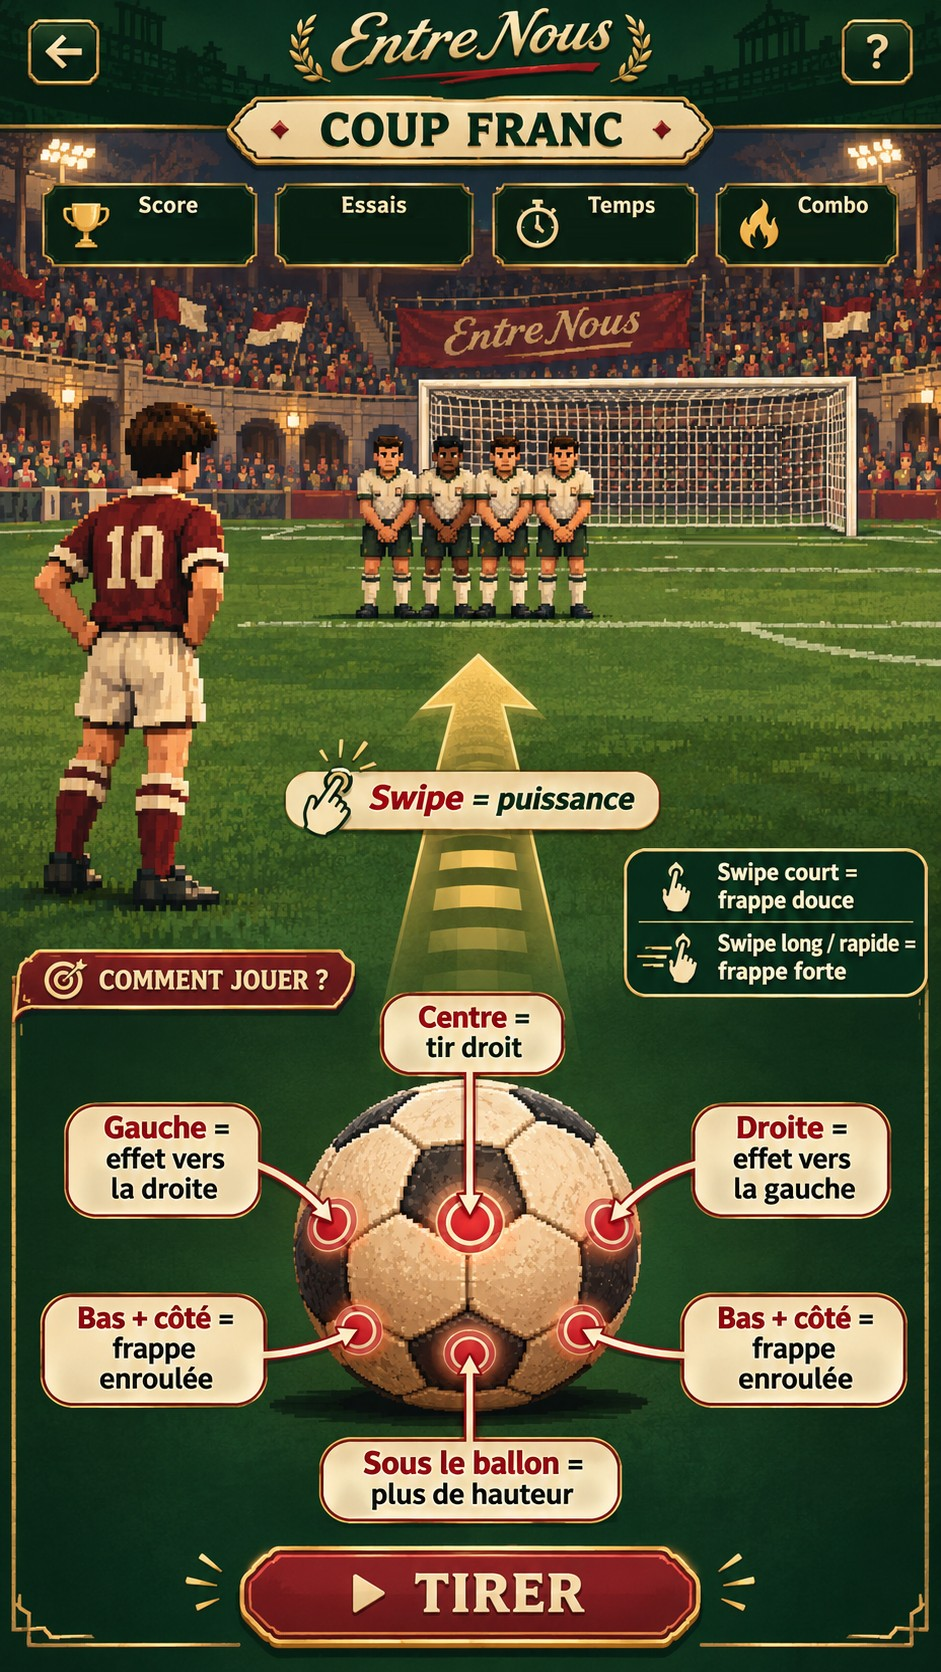
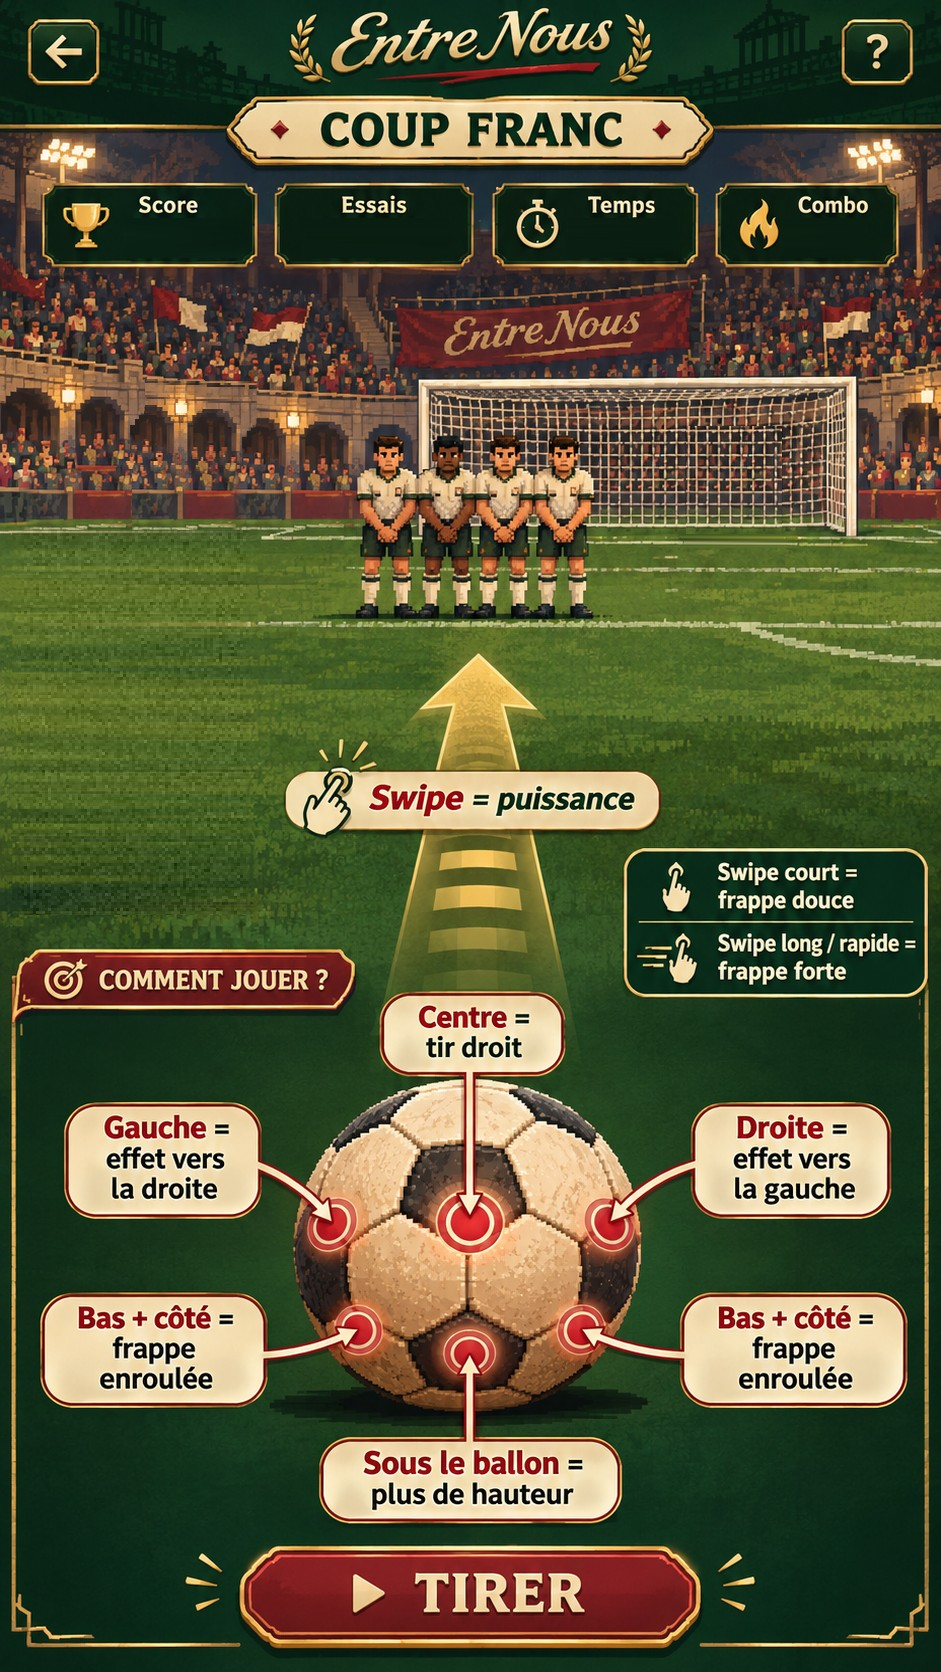
Coup franc : tireur n°10 animé (élan, frappe, accompagnement) et tribune refaite proprement derrière lui
Claude-Session: https://claude.ai/code/session_017bSkysZbUvQznu3NuY22Vg

Changed region(s): [[0.0308, 0.2177, 0.2774, 0.5598]]

diff --git a/src/FreeKickGame.tsx b/src/FreeKickGame.tsx
@@ -8,6 +8,7 @@ import plateSrc from './assets/freekick/fk_plate.jpg'
 import wallSrc from './assets/freekick/fk_wall.png'
 import keeperSrc from './assets/freekick/fk_keeper_anim.png'
 import ballSrc from './assets/freekick/fk_ball.png'
+import shooterSrc from './assets/freekick/fk_shooter_anim.png'
 
 // ============================================================================
 // Coup franc — mini-jeu hebdomadaire.
@@ -54,7 +55,7 @@ const BALL_X = -3 // le ballon est à gauche du but (comme sur l'image)
 // ---- l'image de référence (coordonnées en px de l'image) ----
 const IW = 941, IH = 1672
 const IMG = {
-  ball: { x: 330, y: 884 },          // point de coup franc (devant le tireur)
+  ball: { x: 300, y: 870 },          // point de coup franc (au pied droit du tireur)
   wall: { x: 475, y: 616 },          // pieds du mur (centre)
   goal: { x: 637, y: 532 },          // milieu de la ligne de but
   bigBall: { x: 472, y: 1255, r: 172 }, // gros ballon du « Comment jouer ? »
@@ -65,6 +66,9 @@ const SY = [100, 88, 63.5]   // px par mètre (hauteur)
 const WALL_BOX = { x: 352, y: 428 } // position de la découpe du mur dans l'image
 // gardien animé (vidéo fond vert) : en place, pas chassé, appel, envol, plongeon (vers la droite ; miroir à gauche)
 const KF_W = 322, KF_H = 265
+// tireur animé (vidéo fond vert) : 9 images — debout, élan (1-4), frappe (5), accompagnement (6-8)
+const SH_W = 345, SH_H = 510, SH_BALL = { x: 277.2, y: 465.2 }, SH_SCALE = 1.06
+const RUN_UP = 0.6 // s entre TIRER et la frappe
 const KF_SCALE = 107 / 211 // la pose « en place » fait 211 px sur la planche, 107 px sur l'image
 // zones cliquables de l'image
 const ZONE = {
@@ -185,6 +189,8 @@ interface Engine {
   swipe: { x: number; y: number; t: number }[]
   swiping: boolean
   shot: { dirX: number; power: number } | null // swipe enregistré, prêt à TIRER
+  runAt: number  // TIRER appuyé : élan du tireur
+  kickAt: number // instant de la frappe
   hintAt: number
   msg: { text: string; sub: string; at: number; good: boolean } | null
   particles: { x: number; y: number; vx: number; vy: number; life: number; c: string }[]
@@ -200,16 +206,16 @@ function newEngine(seed: number): Engine {
     phase: 'idle', seed, goals: 0, points: 0, lives: LIVES, combo: 1, startAt: 0, endAt: 0,
     scene, flight: null, free: null, outcome: null, outcomeAt: 0,
     keeperX: scene.keeperX0, keeperJump: 0, contact: { cx: 0, cy: 0 },
-    swipe: [], swiping: false, shot: null, hintAt: -1e9, msg: null, particles: [], spin: 0, audio: null,
+    swipe: [], swiping: false, shot: null, runAt: 0, kickAt: 0, hintAt: -1e9, msg: null, particles: [], spin: 0, audio: null,
     view: { s: 1, ox: 0, oy: 0 },
   }
 }
 
-let imgCache: { plate: HTMLImageElement; wall: HTMLImageElement; keeper: HTMLImageElement; ball: HTMLImageElement } | null = null
+let imgCache: { plate: HTMLImageElement; wall: HTMLImageElement; keeper: HTMLImageElement; ball: HTMLImageElement; shooter: HTMLImageElement } | null = null
 function fkImgs() {
   if (imgCache) return imgCache
   const load = (src: string) => { const im = new Image(); im.src = src; return im }
-  imgCache = { plate: load(plateSrc), wall: load(wallSrc), keeper: load(keeperSrc), ball: load(ballSrc) }
+  imgCache = { plate: load(plateSrc), wall: load(wallSrc), keeper: load(keeperSrc), ball: load(ballSrc), shooter: load(shooterSrc) }
   return imgCache
 }
 
@@ -339,6 +345,7 @@ export default function FreeKickGame({ groupId, groupName, autoApplyAllLeagues, 
     eng.swipe = []
     eng.swiping = false
     eng.shot = null
+    eng.runAt = 0
     eng.msg = null
     eng.phase = 'aim'
     sfxWhistle()
@@ -417,6 +424,8 @@ export default function FreeKickGame({ groupId, groupName, autoApplyAllLeagues, 
     eng.flight = { o: { ...b }, v, a, t: 0, trail: [] }
     eng.phase = 'flight'
     eng.shot = null
+    eng.runAt = 0
+    eng.kickAt = performance.now()
     sfxKick()
     vibrate(15)
   }
@@ -475,6 +484,8 @@ export default function FreeKickGame({ groupId, groupName, autoApplyAllLeagues, 
     const sc = eng.scene
     for (const p of eng.particles) { p.x += p.vx * dt; p.y += p.vy * dt; p.vy += 900 * dt; p.life -= dt }
     eng.particles = eng.particles.filter((p) => p.life > 0)
+    // élan terminé : frappe
+    if (eng.phase === 'aim' && eng.runAt && performance.now() - eng.runAt >= RUN_UP * 1000) shoot()
 
     if (eng.phase === 'flight' && eng.flight) {
       const f = eng.flight
@@ -618,7 +629,7 @@ export default function FreeKickGame({ groupId, groupName, autoApplyAllLeagues, 
     const behindWall = ballPos.z > sc.wallC.z + 0.2
     const drawBall = () => {
       const sh = P({ ...ballPos, y: 0 })
-      const r = Math.max(5, bp.k * BALL_R * 1.55)
+      const r = Math.max(5, bp.k * BALL_R * (3.4 - 1.9 * Math.max(0, Math.min(1, bp.u))))
       ctx.fillStyle = `rgba(0,0,0,${Math.max(0.1, 0.35 - (ballPos.y - BALL_R) * 0.06)})`
       ctx.beginPath(); ctx.ellipse(sh.x, sh.y, r * 1.1, r * 0.35, 0, 0, Math.PI * 2); ctx.fill()
       if (eng.phase === 'flight' && eng.flight && eng.flight.trail.length > 1) {
@@ -636,6 +647,17 @@ export default function FreeKickGame({ groupId, groupName, autoApplyAllLeagues, 
       drawBall()
       if (im.wall.complete && im.wall.naturalWidth) ctx.drawImage(im.wall, WALL_BOX.x, WALL_BOX.y)
     } else drawBall()
+
+    // tireur n°10 animé : son pied droit tombe sur le ballon à la frappe
+    if (im.shooter.complete && im.shooter.naturalWidth) {
+      const t = now
+      let f = 0
+      if (eng.phase === 'aim' && eng.runAt) f = Math.min(5, 1 + Math.floor(((t - eng.runAt) / 1000 / RUN_UP) * 5))
+      else if (eng.kickAt && t - eng.kickAt < 450 && eng.phase !== 'aim') f = Math.min(8, 5 + Math.floor((t - eng.kickAt) / 110))
+      const w = SH_W * SH_SCALE, h = SH_H * SH_SCALE
+      const x = IMG.ball.x - SH_BALL.x * SH_SCALE, y = IMG.ball.y - SH_BALL.y * SH_SCALE
+      ctx.drawImage(im.shooter, f * SH_W, 0, SH_W, SH_H, x, y, w, h)
+    }
 
     // ---- bandeau : score, essais, temps, combo ----
     ctx.textAlign = 'center'; ctx.textBaseline = 'middle'
@@ -782,7 +804,7 @@ export default function FreeKickGame({ groupId, groupName, autoApplyAllLeagues, 
     if (inZone(ZONE.help, p)) { setShowRules((v) => !v); return }
     if (eng.phase !== 'aim') return
     if (inZone(ZONE.shoot, p)) {
-      if (eng.shot) shoot()
+      if (eng.shot) { if (!eng.runAt) eng.runAt = performance.now() }
       else eng.hintAt = performance.now()
       return
     }
